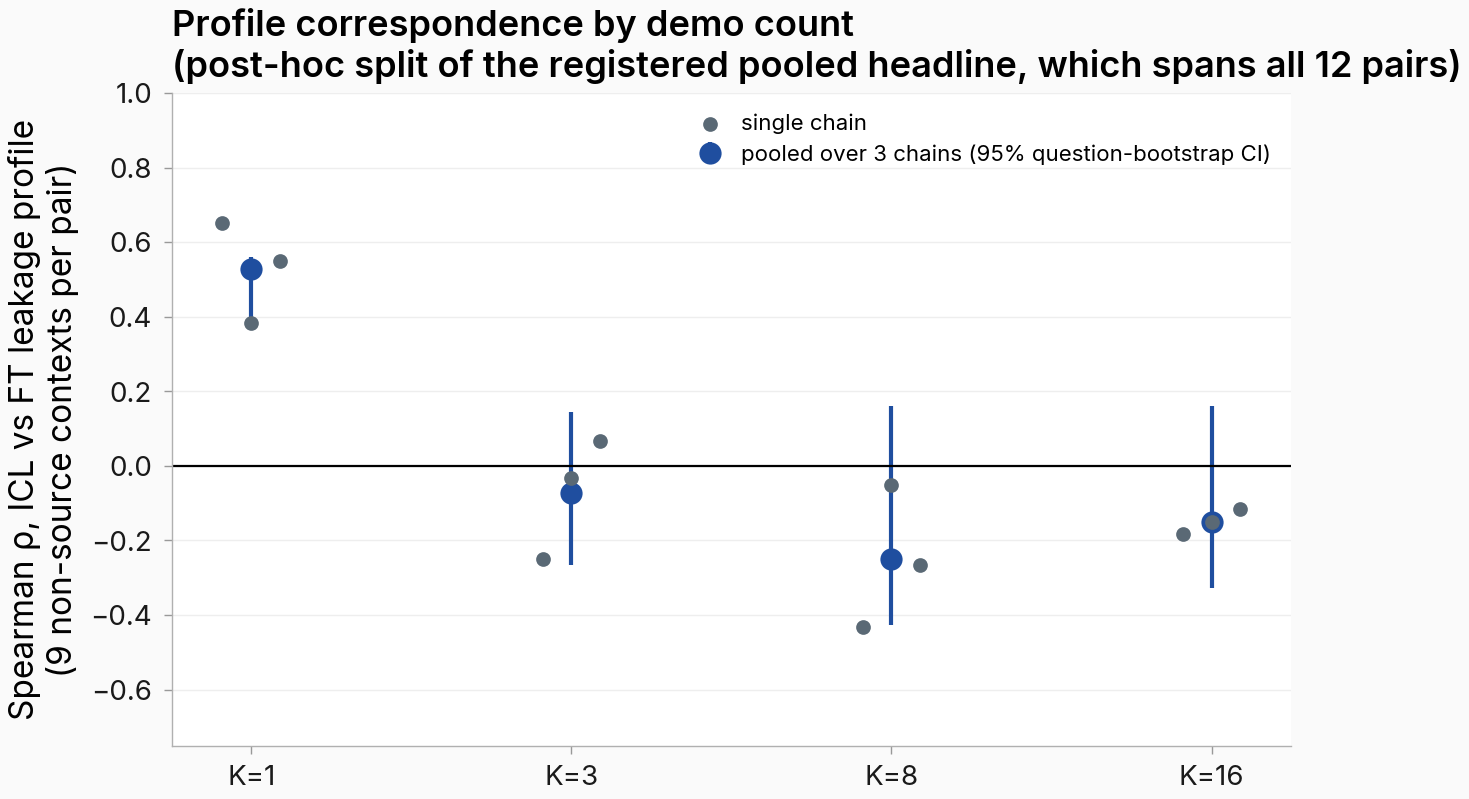
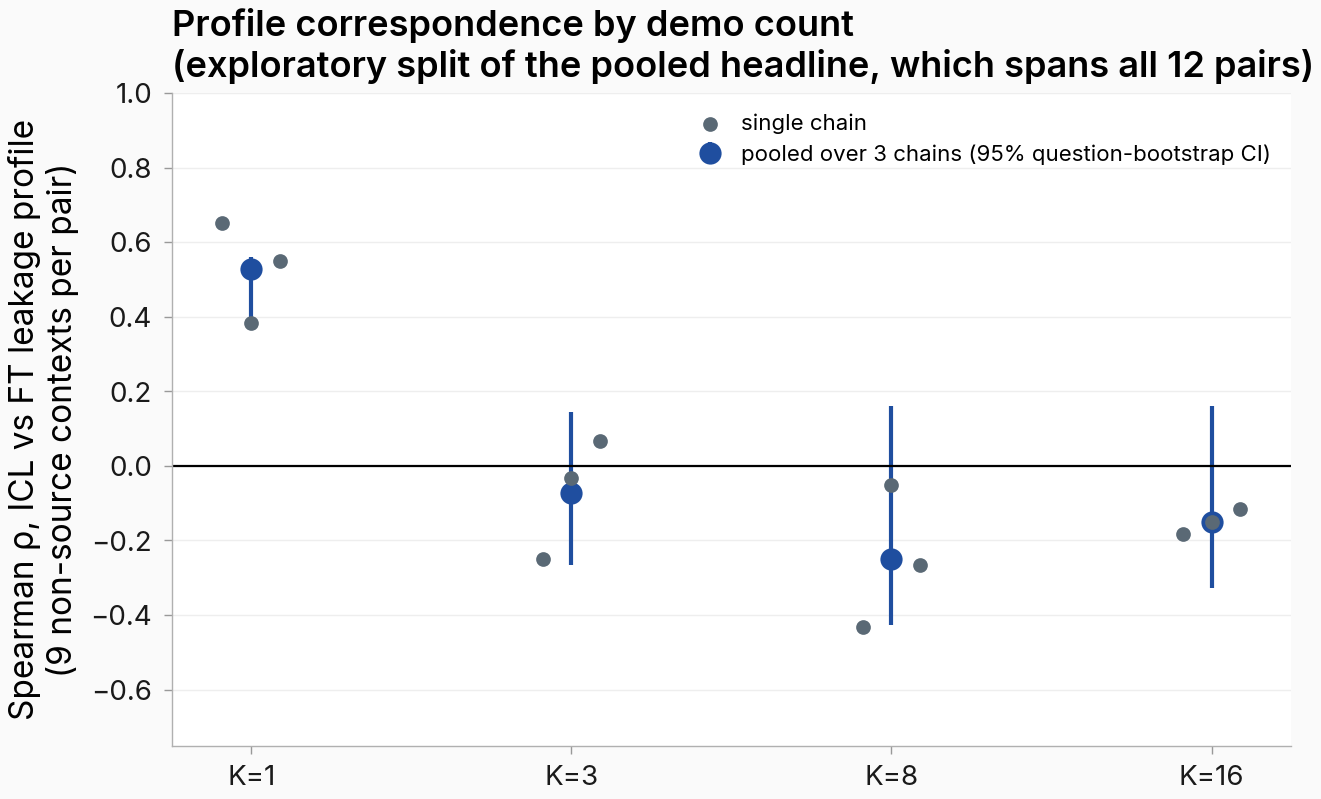
task #491 round 6: rho_by_k in-figure title scrub (exploratory-split framing, drop banned vocabulary)

diff --git a/src/explore_persona_space/experiments/icl_vs_ft_491/figures_analyzer.py b/src/explore_persona_space/experiments/icl_vs_ft_491/figures_analyzer.py
@@ -435,7 +435,7 @@ def rho_by_k() -> None:
     ax.legend(loc="upper right", fontsize=8)
     ax.set_title(
         "Profile correspondence by demo count\n"
-        "(post-hoc split of the registered pooled headline, which spans all 12 pairs)"
+        "(exploratory split of the pooled headline, which spans all 12 pairs)"
     )
     _save(fig, "rho_by_k")
     plt.close(fig)
